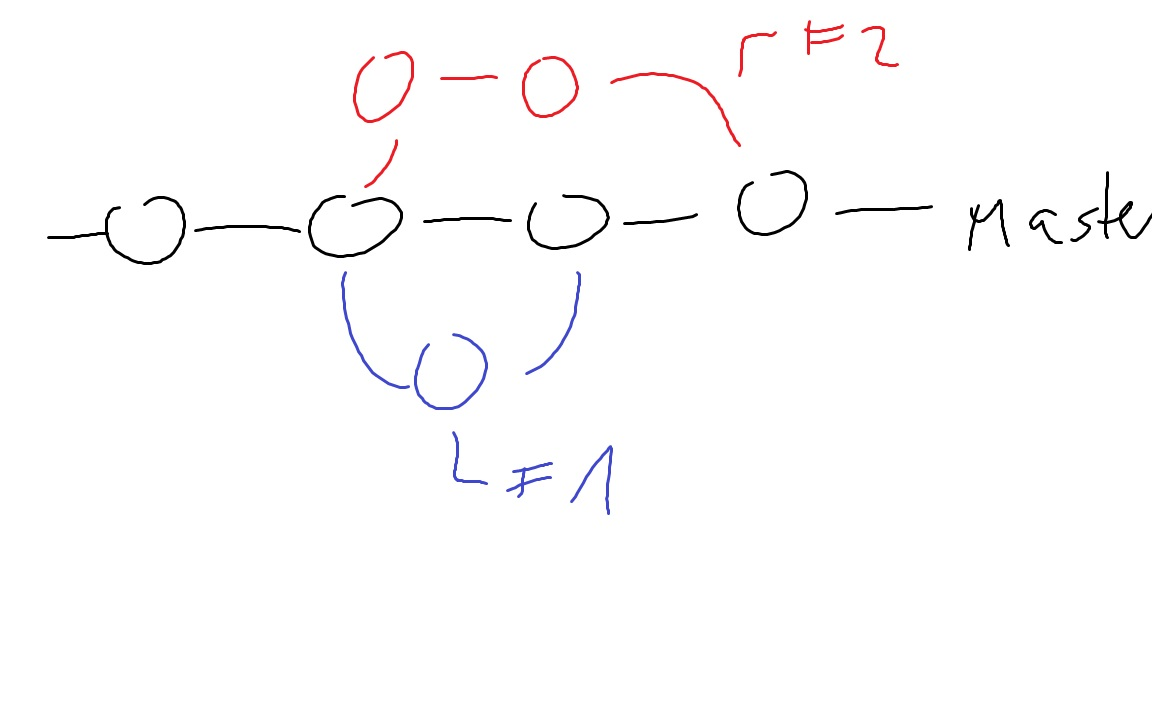
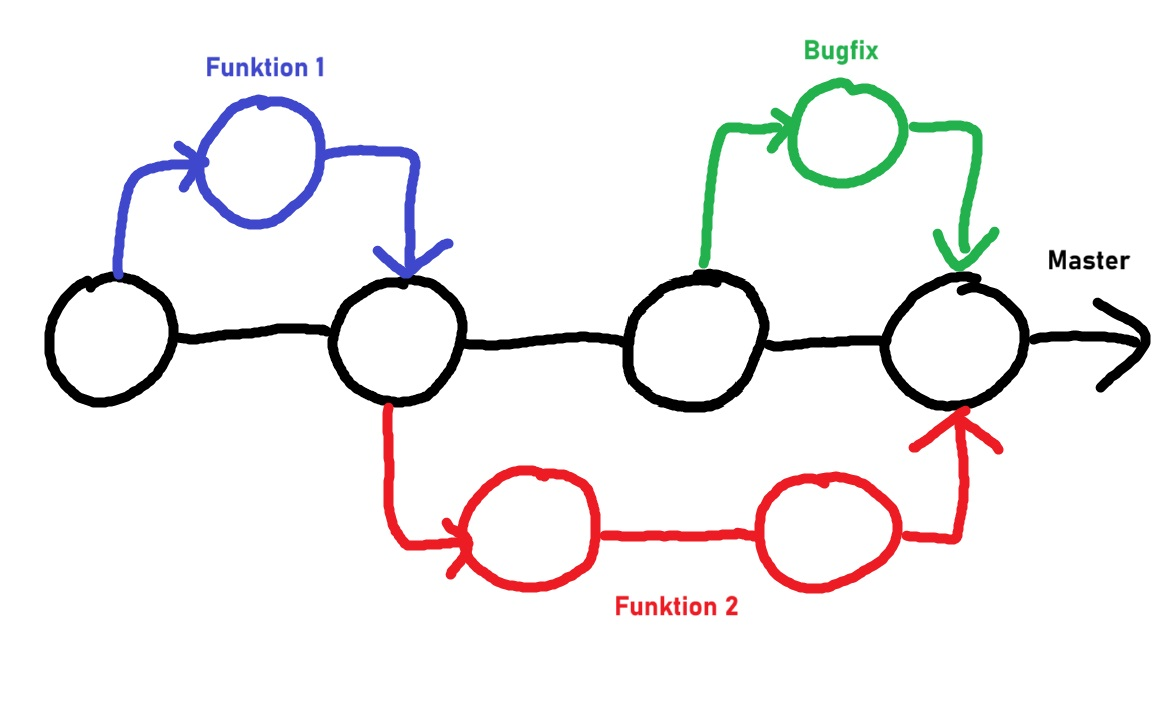
merge + merge konflikt added + branch.jpg renew

diff --git a/README.md b/README.md
@@ -1,5 +1,7 @@
 # MS
-Moderne Softwareentwicklung
+Moderne Softwareentwicklung  
+
+Branches und ihre Nutzung:
 
 Branches:
 ![image info](./images/branch.jpg)
@@ -10,14 +12,29 @@ Nutzen:
 - testen von neuem code + bugfix Bereinigung ohne Hauptcode zu veraendern -> Integration in Hauptcode nach erfolgreichem Test  
 
 Branch erstellen:  
-Der branch wird inhaltlich aus dem branch erstellt von dem er erzeugt wird. Nach der Erstellung wechselt man direkt hinein.
-<p><code>git checkout -b neuer-branch-name</code></p>  
-Danach muss der branch in git hochgeladen werden  
-<p><code>git push -u origin neuer-branch-name</code></p>  
-Mit 
-<p><code>git checkout branch-name</code></p>  
-wechselt man in einen branch.  
+Der branch wird inhaltlich aus dem branch erstellt von dem er erzeugt wird. Nach der Erstellung wechselt man direkt hinein.  
+Mit <p><code>git checkout -b neuer-branch-name</code></p> wir ein neuer branch erstellt. Zu diesem Zeitpunkt ist der nur lokal aktiv.  
+Danach muss der branch in git hochgeladen werden: <p><code>git push -u origin neuer-branch-name</code></p>  
+Mit <p><code>git checkout branch-name</code></p> wir in den angegebenen branch gewechselt.  
+Mit <p><code>git fetch --all</code></p> werden alle branches aus GitHub geholt.  
 
-Mit  
-<p><code>git fetch --all</code></p>  
-werden alle branches aus GitHub geholt. 
+Merge  
+
+Nach der Funktionserweiterung oder Bugbehebung wird der Branch wieder in den Hauptstrang gemerged.  
+Hierfuer muss man sich in dem Ziel-Branch befinden in dem die Aenderungen gemerged werden sollen. 
+Bevor ein merge stattfindet sollten sich mit einem <p><code>git pull origin main</code></p> die neusten Aenderungen gezogen werden, um sicher zu gehen, dass der lokale Branch auf dem neusten Stand ist.  
+Danach wir mit einem <p><code>git merge neuer-branch-name</code></p> der Quell-Branch in den Ziel-Branch germerged.  
+
+Merge-Konflikte  
+
+Es kann durchaus vorkommen, dass Merge-Konflikte entstehen, meistens dann, wenn zwei Branches gleichzeitig Aenderungen an derselben Datei vornimmt und Git diese nicht automatisch zusammen fuehren kann.  
+Passiert dies, erkennt Git Konflikte und zeigt die betroffenen Dateien.  
+Oeffnet man die betroffenen Dateien sind die folgenden Zeichen zu sehen: <p><code> <<<<<<<, ======= und >>>>>>> </code></p>. Alles zwischen <p><code> <<<<<< und ====== </code></p> stammt von dem aktuellen Ziel-Branch und alles zwischen <p><code> ======== und >>>>>>> </code></p> stammt vom Quell-Branch.  
+Die Konflikte muessen manuell geloest werden. Die Aenderungen muessen haendisch zusammen gefuegt werden oder einer der Bloeke muss entfernt werden.  
+Danach muss die Datei mit einem <p><code>git add dateiname</code></p> dem Ziel-Branch hinzugefuegt werden.  
+Der Merge wird danach per <p><code>git commit</code></p> und bei einem Remote-Repository mit <p><code>git push origin Ziel-Branch</code></p> abgeschlossen.  
+
+Weitere Tipps zum Umgang mit Merge-Konflikten:  
+- Verwendung von Diff-Tools um Unterschiede und Konflikte uebersichtlich darzustellen
+- Konflikte frueh erkennen und haeufig pullen um sie direkt zu loesen bevor es grosse Konflikte werden
+- kleinteilige Commits um den neu erstellten Codekontext zu vertehen
